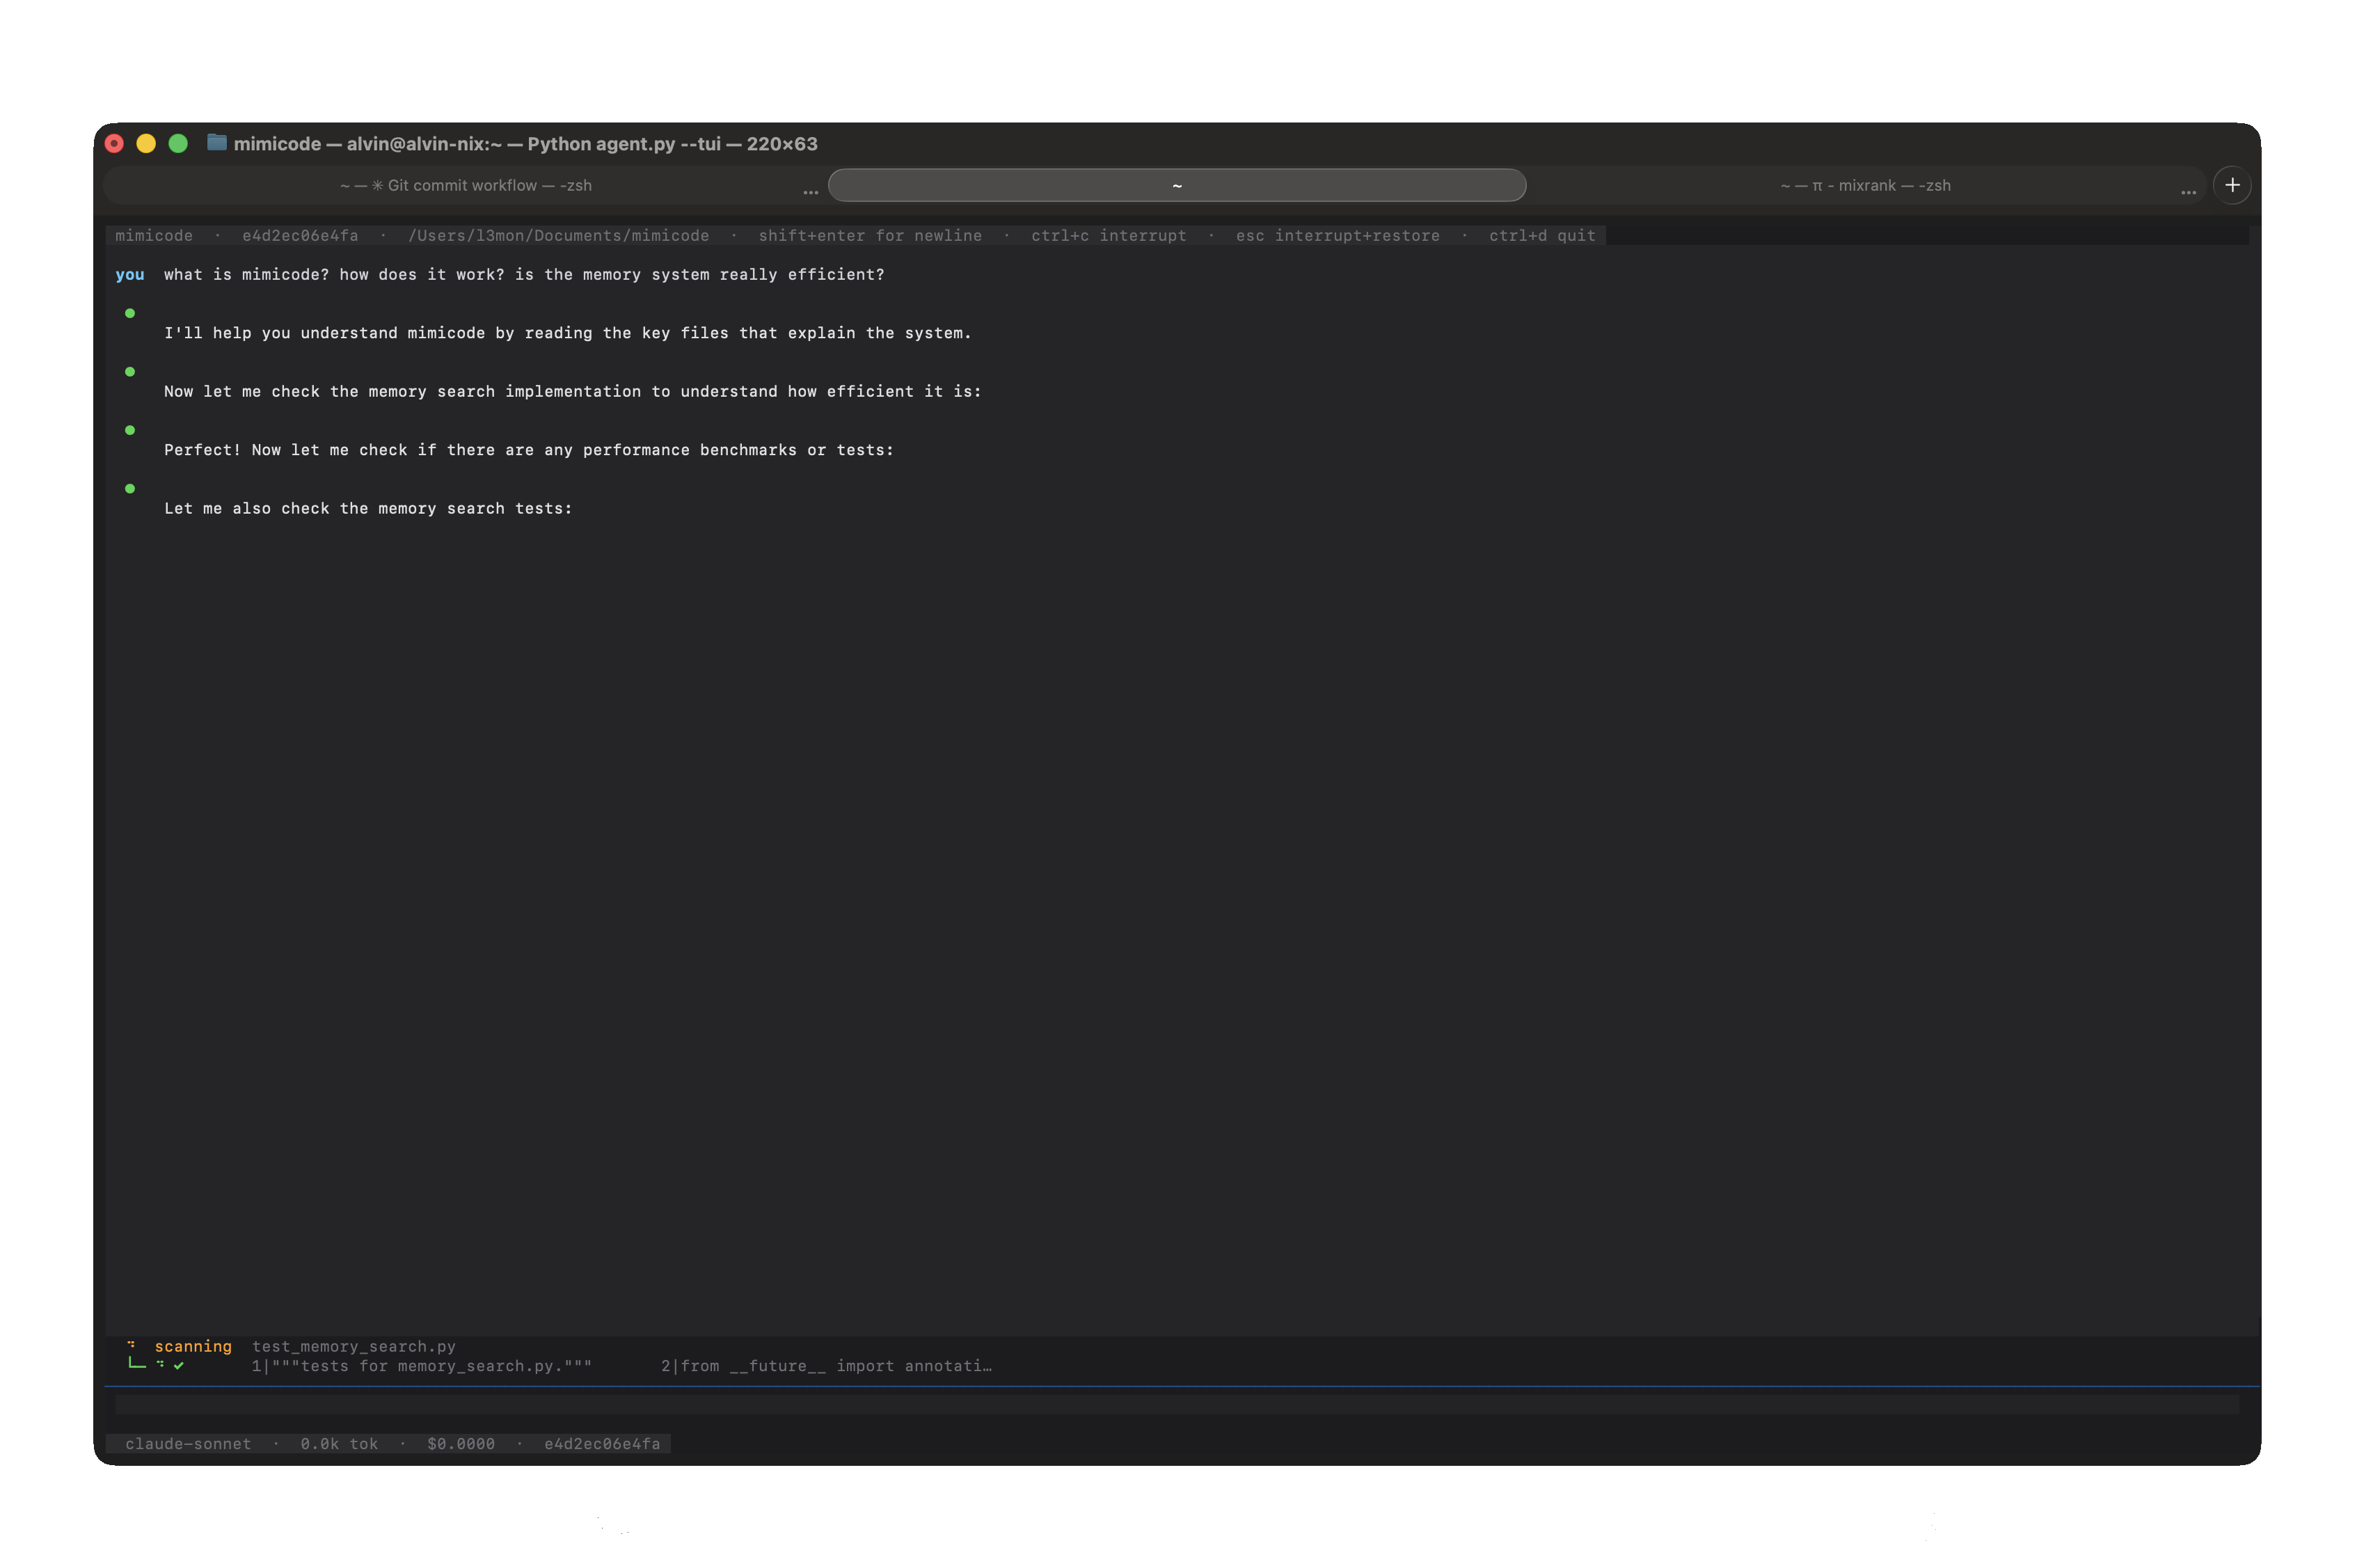
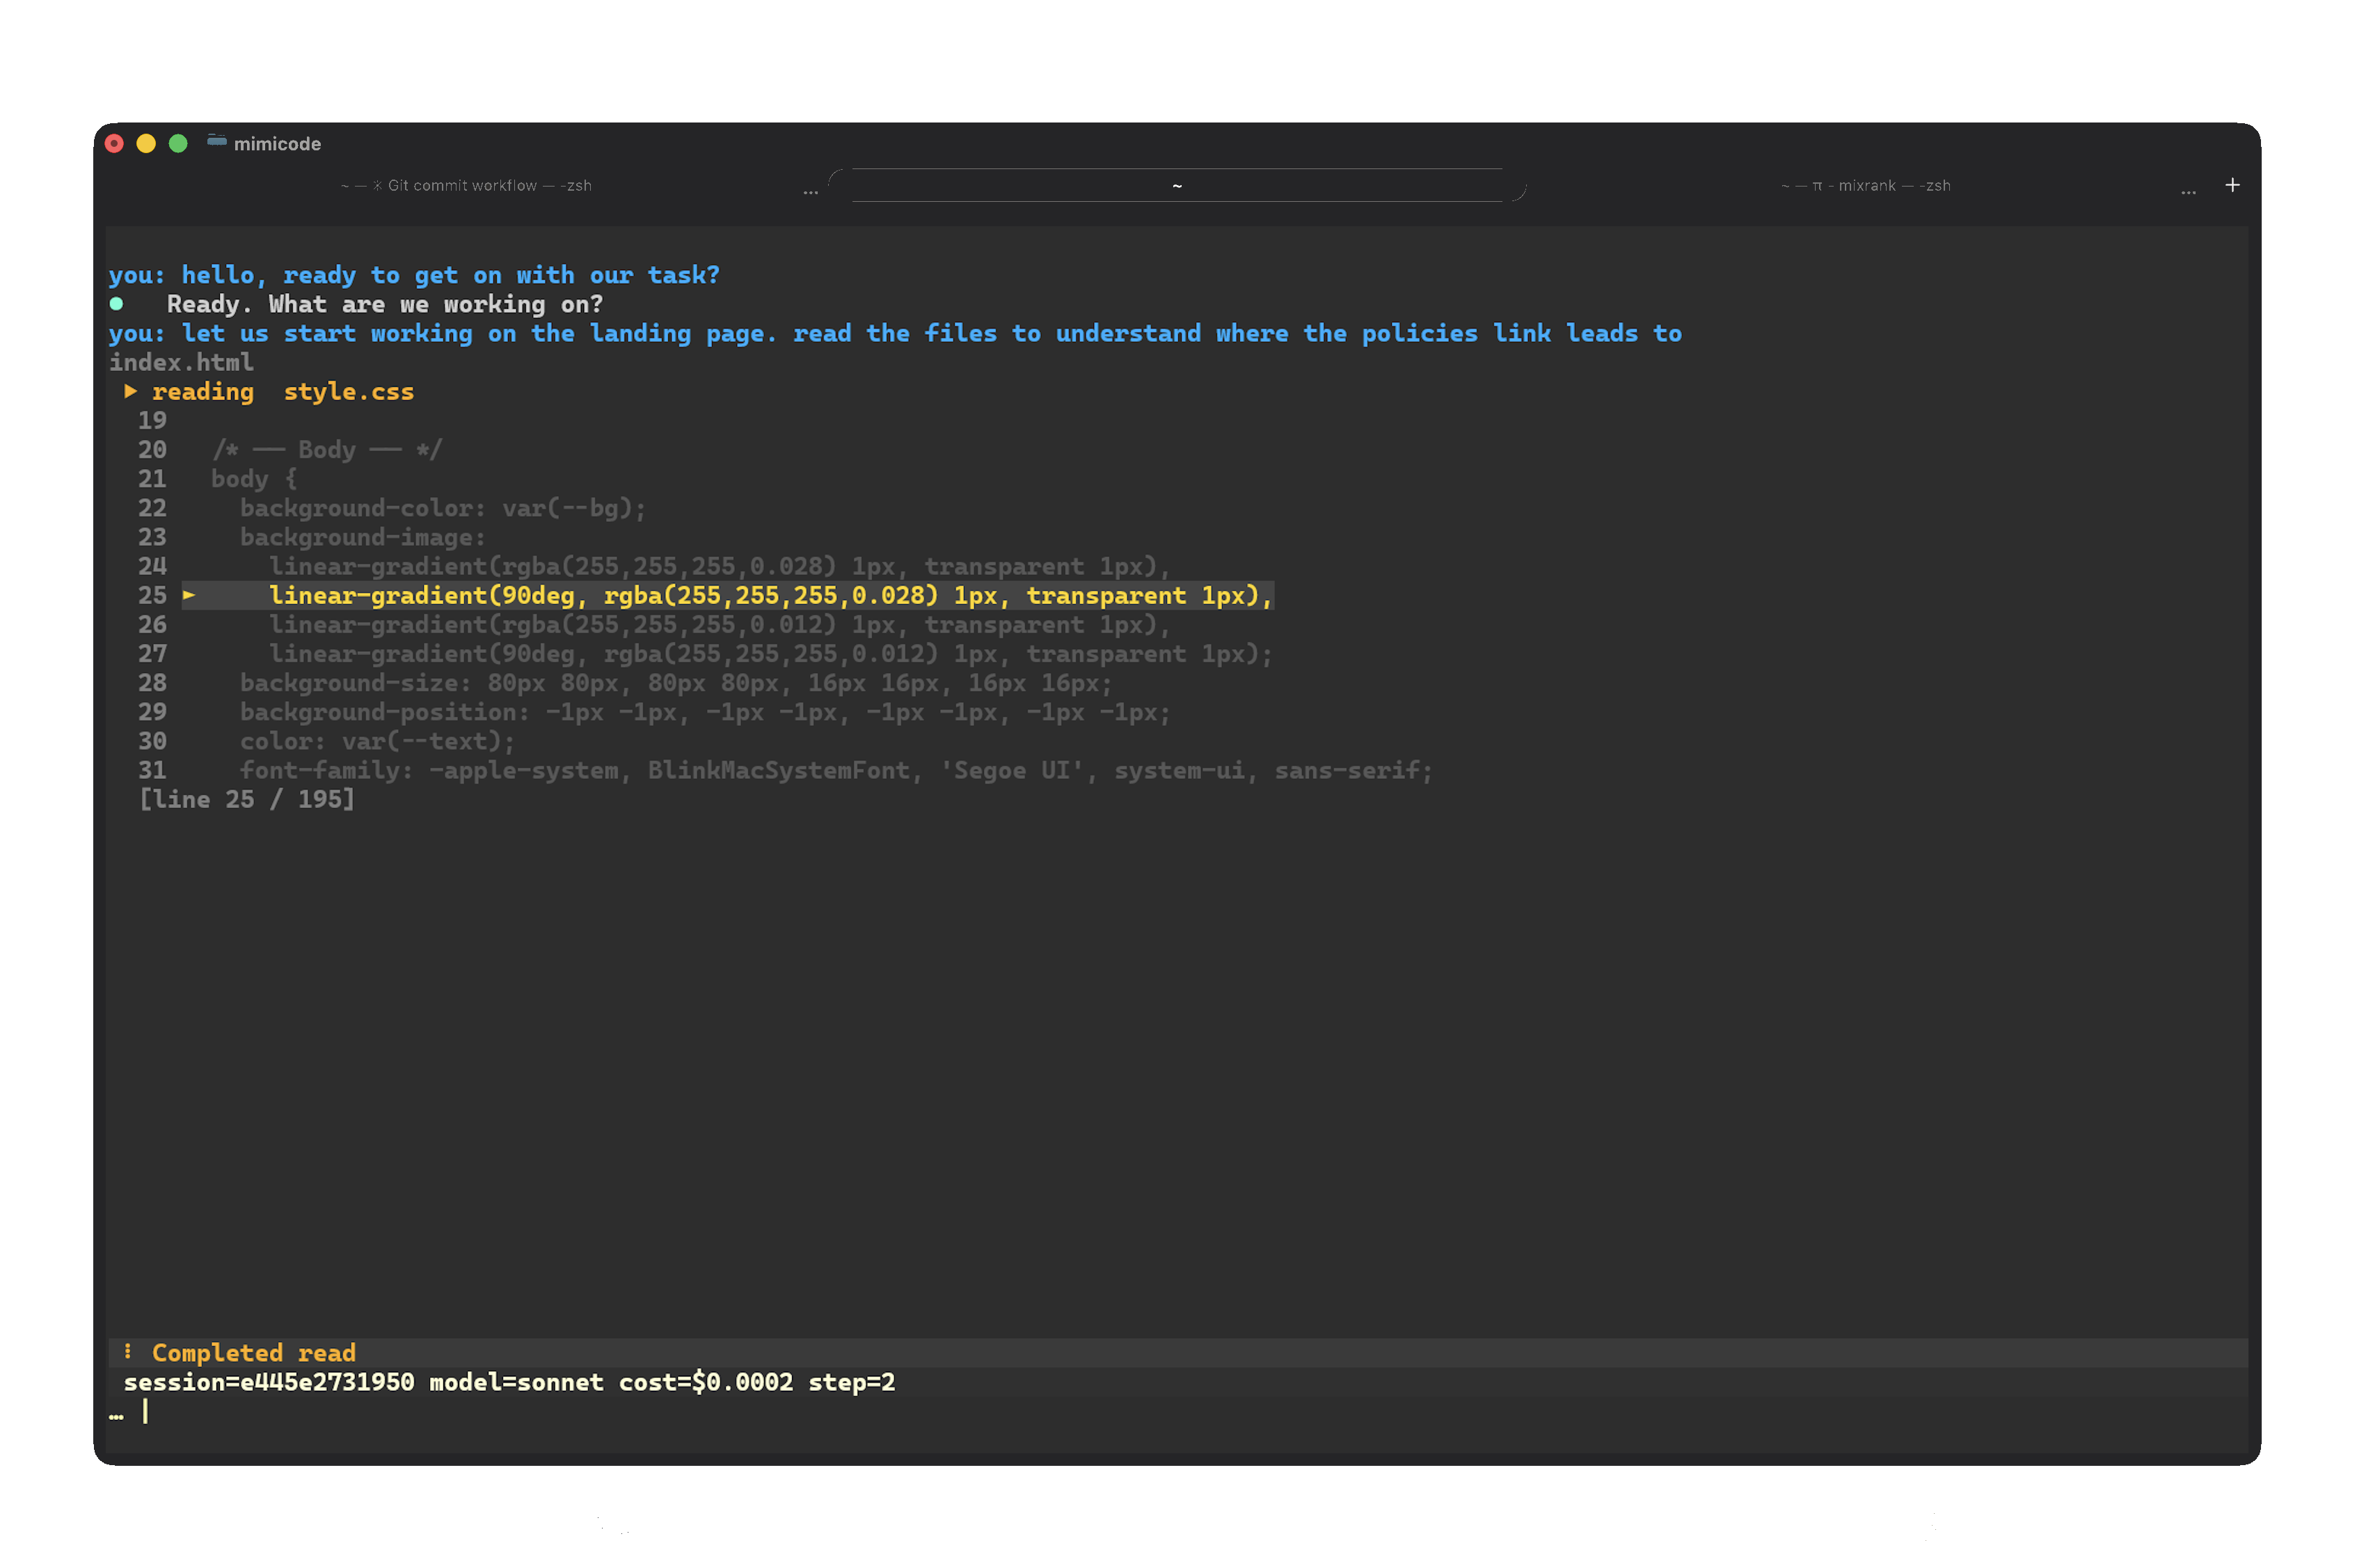
updating image for mimicode preview

diff --git a/.mimi/MEMORY.md b/.mimi/MEMORY.md
@@ -16,3 +16,6 @@
 ## session-reflect: 796d6410a5cf — 2026-06-03T20:53:42Z
 Model implemented a multi-file navigation animation system (exit transitions in index.html, entrance animations in docs/index.html using sessionStorage) across turn 8, then user issued :undo in turn 9 to remove all changes. Verification showed code was syntactically correct but user explicitly rejected the implementation.
 
+## session-reflect: e445e2731950 — 2026-06-04T20:06:21Z
+User requested review of the landing page's policies links. Model explored the policies directory structure, made several failed command attempts (find, rg, Windows dir syntax) before successfully discovering the structure: three policy pages (privacy, terms, disclaimer) in separate directories under policies/.
+